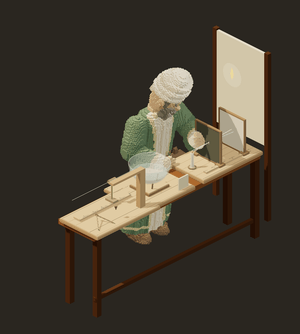
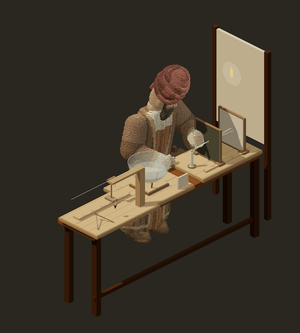
Ibn al-Haytham in the owner's new character design
From the owner's character collection: a burgundy wrapped turban, a dark
beard and brown and rust robes, on a finer voxel grid. It is the same
model with the same joints, so the optics-workflow animation, his card
picture, sprite and gallery are re-rendered with it. The import tool takes
the figure's folder as an optional argument. The lighting is lowered a
little to keep the darker colours true.

Claude-Session: https://claude.ai/code/session_01QsGb9hcDKqL5Q4XWvrw6Z3

Changed region(s): [[0.18, 0.0601, 0.9, 0.9309], [0.21, 0.7207, 0.24, 0.9009], [0.36, 0.8408, 0.42, 0.8709]]

diff --git a/tools/prepare-haytham.ts b/tools/prepare-haytham.ts
@@ -23,11 +23,16 @@ import sharp from 'sharp';
  * (standing with the Book of Optics), his sprite, and a gallery of the four
  * gestures.
  *
- *   node --import tsx tools/prepare-haytham.ts <Ibn-al-Haytham-Complete-Collection> <three.js vendor folder>
+ *   node --import tsx tools/prepare-haytham.ts <Ibn-al-Haytham-Complete-Collection> <three.js vendor folder> [figure folder]
+ *
+ * The figure: by default the complete collection's Scholar viewer. The
+ * owner's later character collection (Ibn-al-Haytham-Character-Collection:
+ * burgundy turban, dark beard, brown and rust robes, finer voxels) has the
+ * same model.js with the same joints; pass its folder as the third argument.
  *
  * three.js: the vendor folder of the owner's mosque model pack (0.180).
  */
-const [collection, three] = process.argv.slice(2);
+const [collection, three, figure] = process.argv.slice(2);
 if (!collection || !three)
   throw Error(
     'Usage: prepare-haytham.ts <collection folder> <three vendor folder>',
@@ -38,7 +43,9 @@ const ID = 'ibn-al-haytham',
   K = (72 * D) / (5.04 * Math.cos(Math.PI / 6));
 
 const roots: Record<string, string> = {
-  scholar: path.resolve(collection, 'Interactive-Viewers/Scholar'),
+  scholar: path.resolve(
+    figure ?? path.join(collection, 'Interactive-Viewers/Scholar'),
+  ),
   equipment: path.resolve(collection, 'Interactive-Viewers/Equipment'),
   three: path.resolve(three),
   render: path.resolve('tools/haytham'),
@@ -178,9 +185,11 @@ card.loop = 120;
 card.script = [
   { from: 0, to: 120, action: 'write', at: [49.6, 18.6], facing: 'SE' },
 ];
-card.look.colours.garmentPrimary = 'olive';
-card.look.colours.headwear = 'white-linen';
-card.look.colours.hair = 'hair-grey';
+// The character collection's colours: brown robe, burgundy turban, dark beard.
+card.look.colours.garmentPrimary = 'cocoa';
+card.look.colours.garmentSecondary = 'madder-red';
+card.look.colours.headwear = 'madder-red';
+card.look.colours.hair = 'hair-black';
 fs.writeFileSync(cardFile, JSON.stringify(card, null, 2) + '\n');
 console.log(
   `Ibn al-Haytham: ${unique.length} frames ${W}×${H}, card art and gallery written.`,

diff --git a/tools/haytham/render.html b/tools/haytham/render.html
@@ -35,10 +35,10 @@
     renderer.shadowMap.enabled = true;
     renderer.shadowMap.type = T.PCFSoftShadowMap;
     renderer.toneMapping = T.ACESFilmicToneMapping;
-    renderer.toneMappingExposure = 1.25;
+    renderer.toneMappingExposure = 0.95;
     renderer.setClearColor(0, 0);
     const scene = new T.Scene();
-    scene.add(new T.HemisphereLight('#fff1dc', '#8a8f86', 1.5));
+    scene.add(new T.HemisphereLight('#fff1dc', '#8a8f86', 1.15));
     const sun = new T.DirectionalLight('#ffe7c4', 2.0);
     sun.position.set(-4, 9, 6);
     sun.castShadow = true;

diff --git a/DECISIONS.md b/DECISIONS.md
@@ -242,3 +242,8 @@
     - **Placement:** he moved to the open south-east corner of the university science lab (49.6, 18.6).
     - **Card:** a new picture of him standing with the green Book of Optics, a sprite rendered from it, and five gallery stills, one per gesture. The card's facts are unchanged and `panelApproved` stays false.
     - **Approximations:** the figure has no elbows, wrists or fingers to bend, so the fine gestures are the arms' reach and the instruments' movement. These are the fingernail on the plate, the pinch on the dial, the twist of the wrist and the hand resting on the chin. The compass is shown at the parchment rather than held in the fingers.
+72. Ibn al-Haytham's new look, from the owner's character collection (`Ibn-al-Haytham-Character-Collection`), which follows two portrait references the owner supplied:
+    - **The figure:** a burgundy wrapped turban, a dark beard, and brown and rust robes, built on a finer voxel grid (0.02). It is the same model with the same joints, so `tools/prepare-haytham.ts` takes the collection's folder as an optional third argument and re-renders the whole optics workflow, his card picture, sprite and gallery with it.
+    - **Lighting:** a little lower (exposure 0.95), so the darker colours match the concept art.
+    - **Card colours:** cocoa robe, madder-red turban and secondary, black hair.
+    - **Not used:** the shared exhibit link (al-bayt al-muzlim) could not be opened from this environment. Its network policy blocks the host, and the exhibits need the owner's ChatGPT sign-in.
